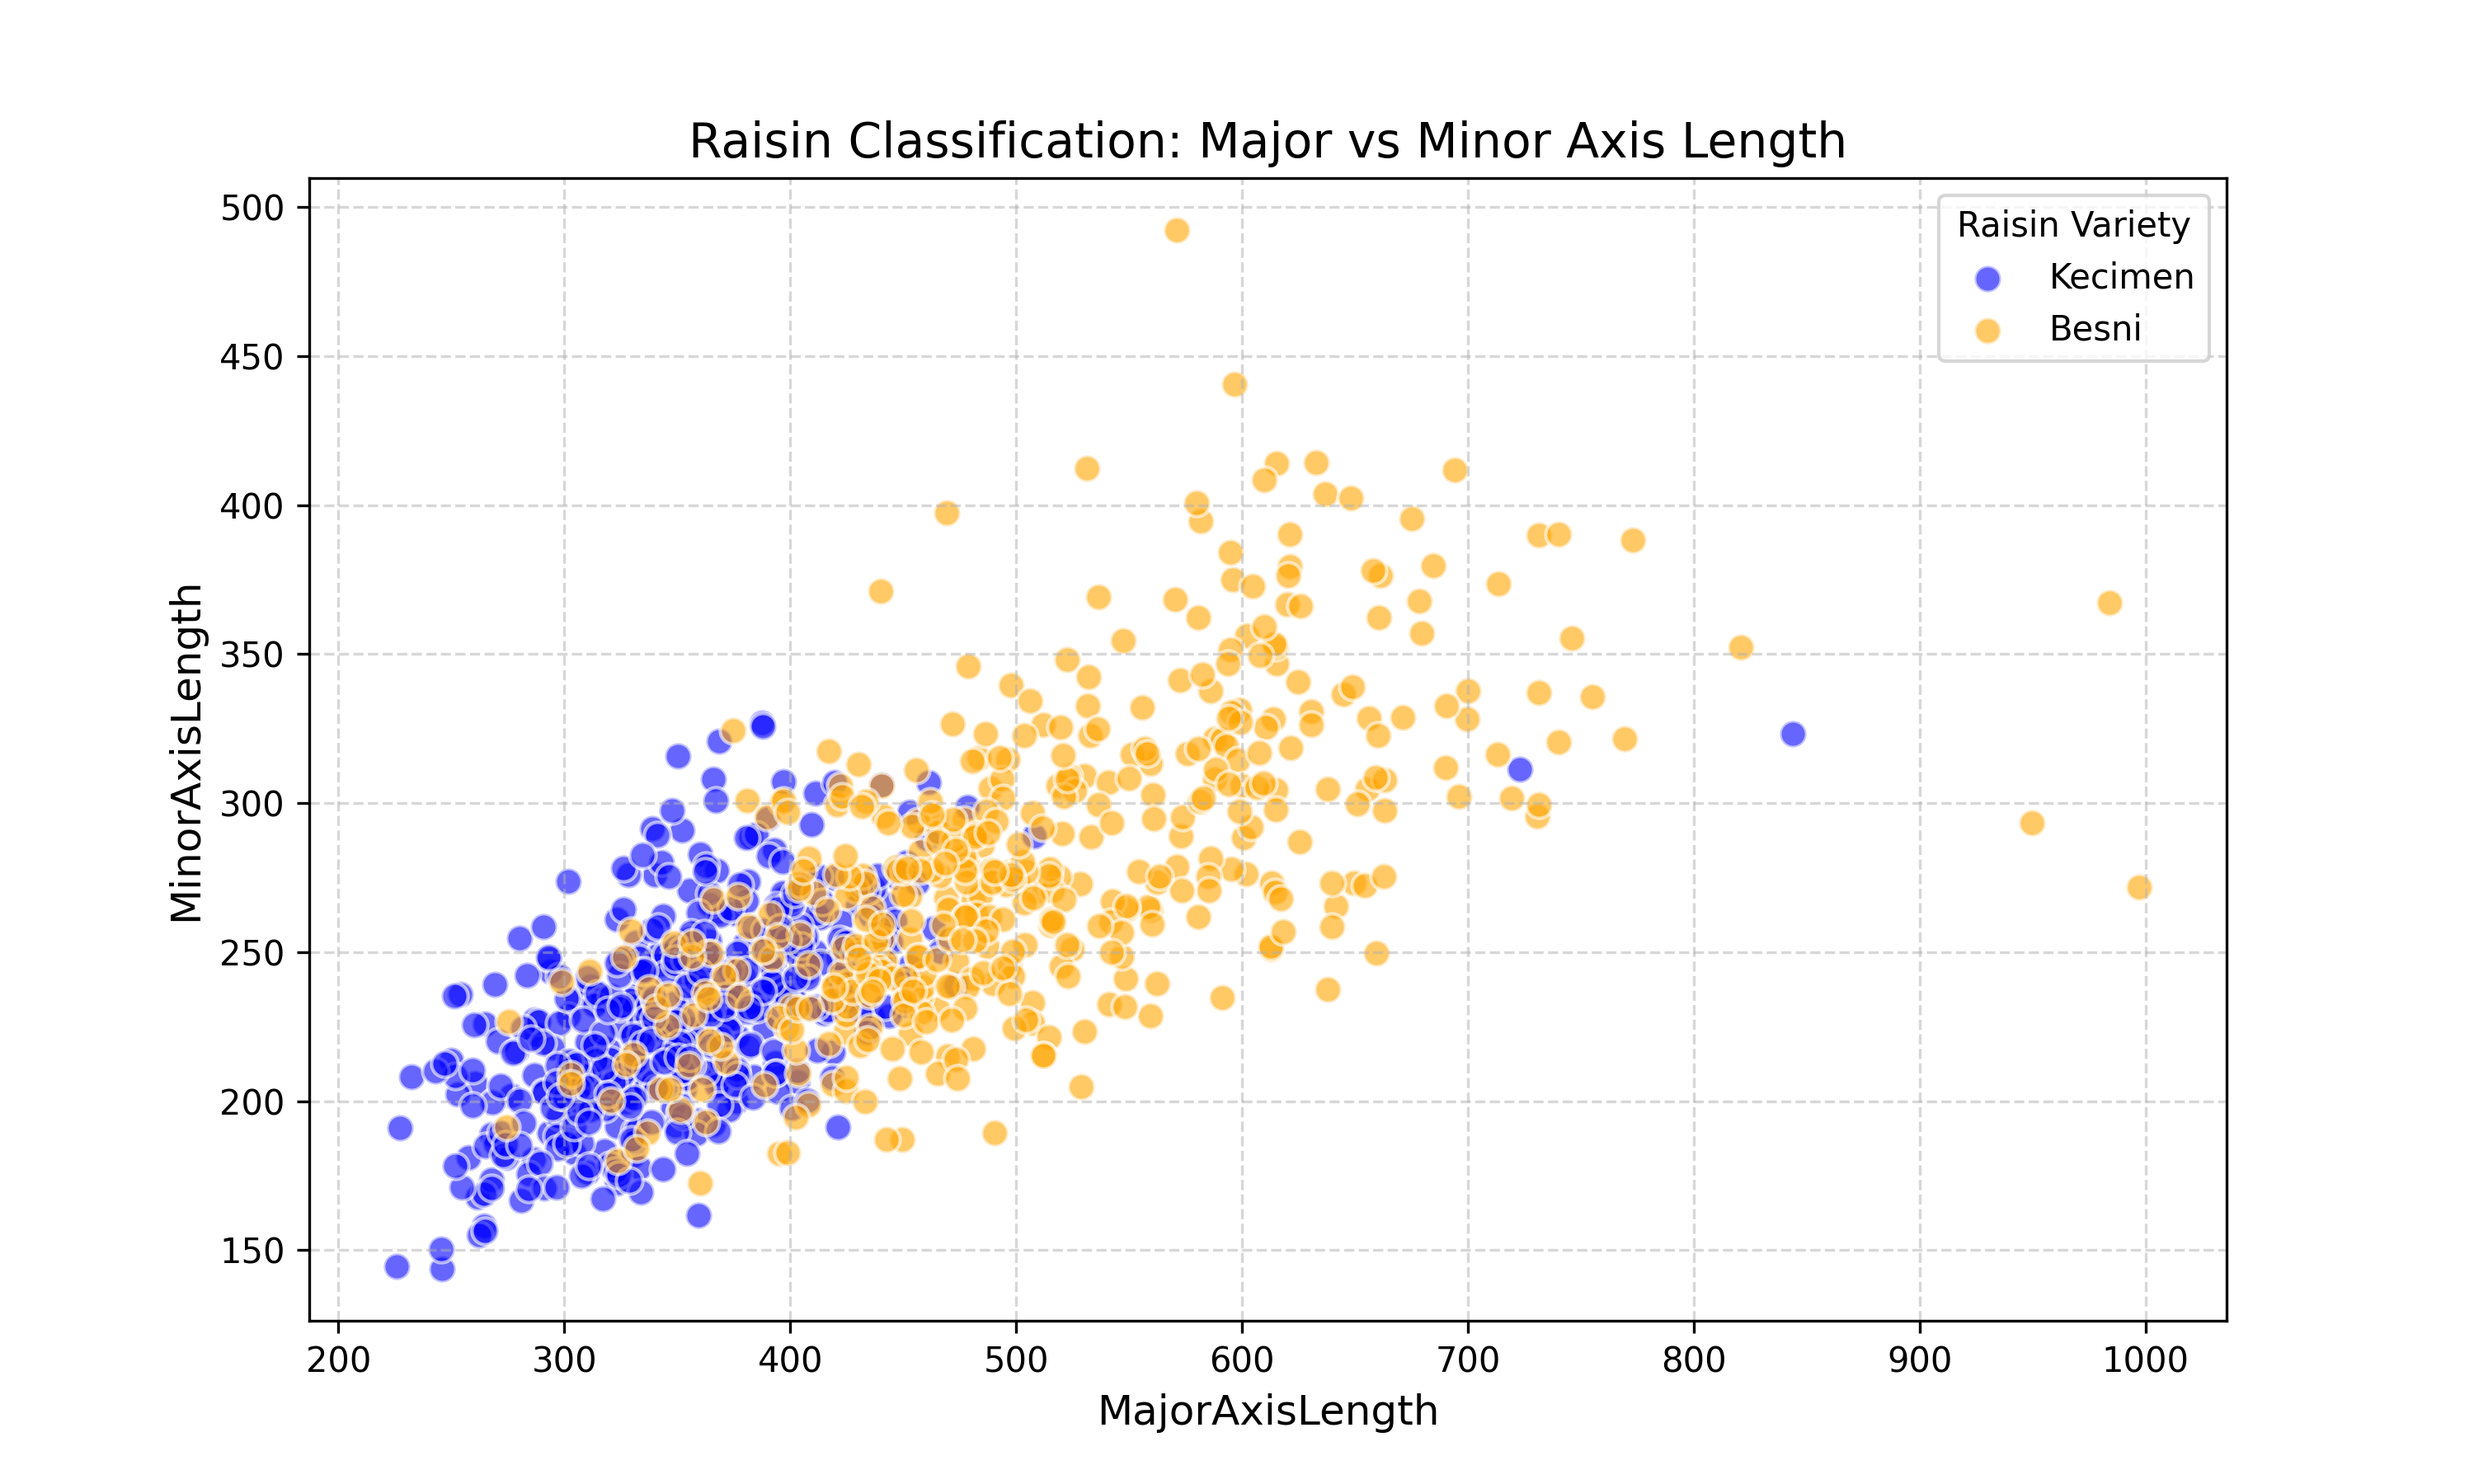
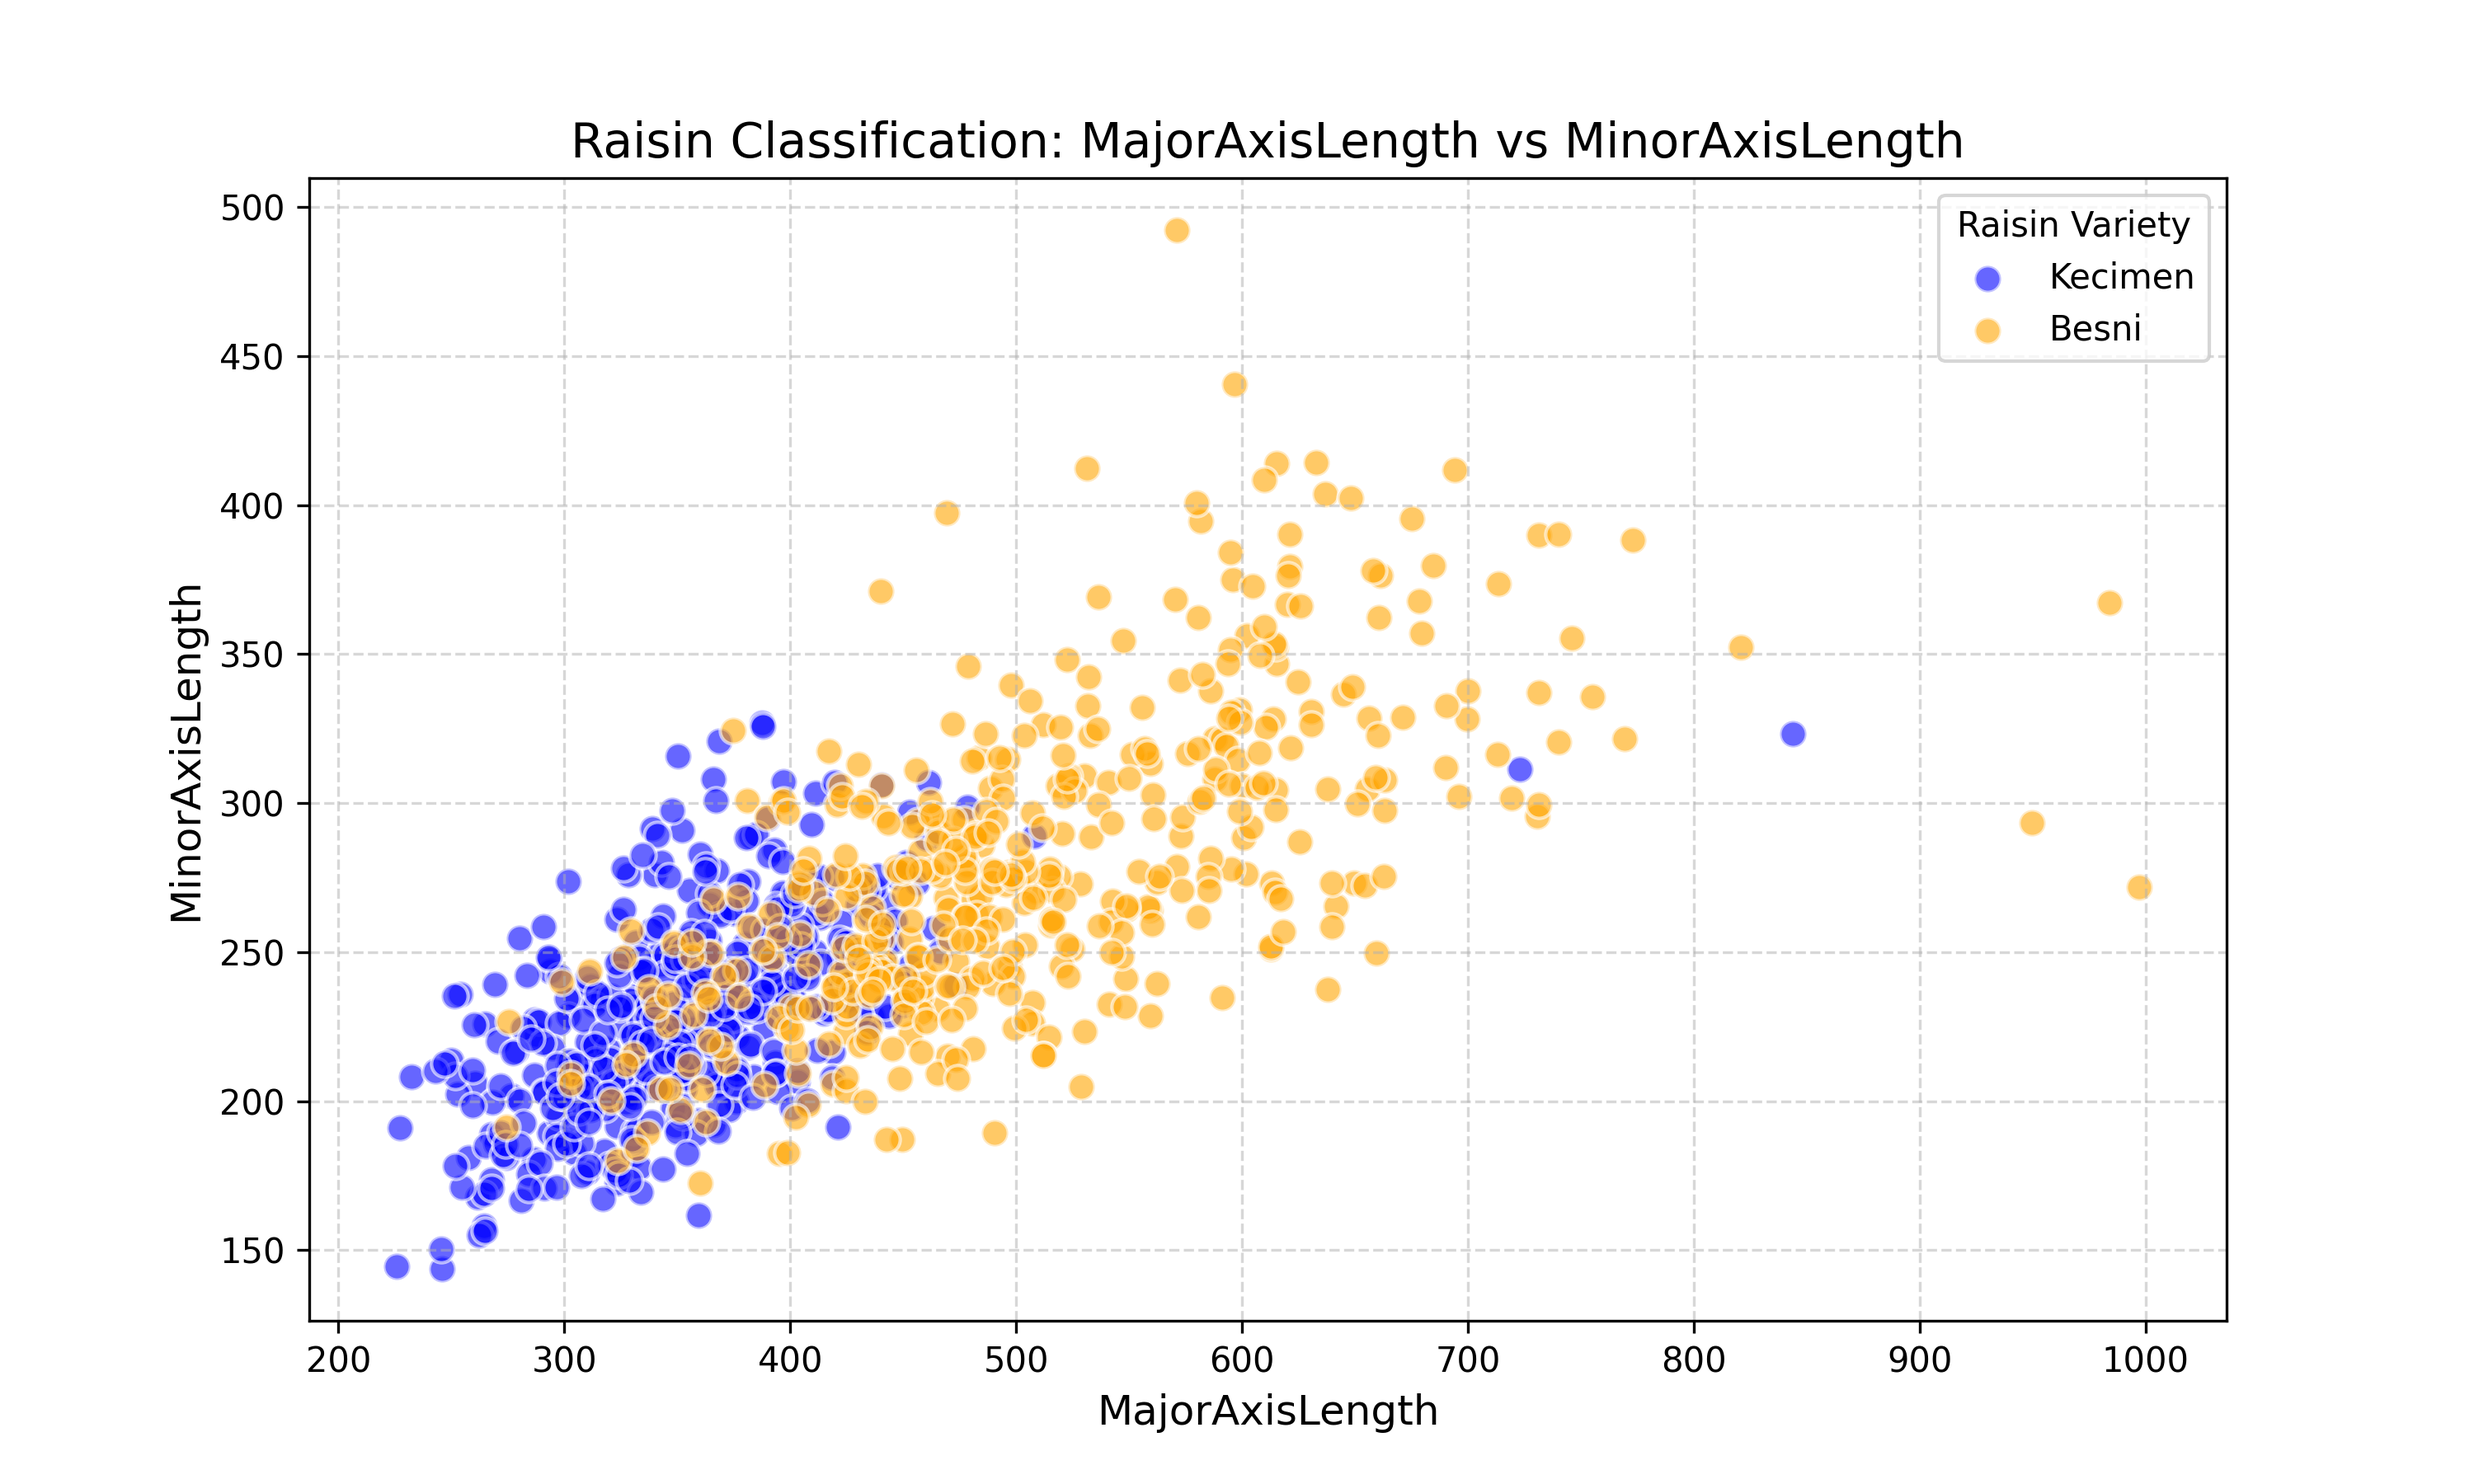
improvement

Changed region(s): [[0.248, 0.0622, 0.775, 0.1244]]

diff --git a/main.py b/main.py
@@ -21,50 +21,39 @@ Raisin = np.dtype(
 
 os.makedirs("graphs/scatterplots", exist_ok=True)
 
-df = pd.read_csv("./data.csv", dtype=Raisin)
+df = pd.read_csv("./data.csv")
 
 color_map = {"Kecimen": "blue", "Besni": "orange"}
 
-plt.figure(figsize=(10, 6))
-for label, color in color_map.items():
-    subset = df[df["Class"] == label]
 
-    plt.scatter(
-        subset["MajorAxisLength"],
-        subset["MinorAxisLength"],
-        c=color,
-        label=label,
-        alpha=0.6,
-        edgecolors="w",
-        s=60,
-    )
-
-plt.title("Raisin Classification: Major vs Minor Axis Length", fontsize=14)
-plt.xlabel("MajorAxisLength", fontsize=12)
-plt.ylabel("MinorAxisLength", fontsize=12)
-plt.legend(title="Raisin Variety")
-plt.grid(True, linestyle="--", alpha=0.5)
-
-plt.savefig("graphs/scatterplots/raisin_scatterplot_1.png", dpi=300)
-
-plt.figure(figsize=(10, 6))
-for label, color in color_map.items():
-    subset = df[df["Class"] == label]
-
-    plt.scatter(
-        subset["Area"],
-        subset["Extent"],
-        c=color,
-        label=label,
-        alpha=0.6,
-        edgecolors="w",
-        s=60,
-    )
-
-    plt.title("Raisin Classification: Area vs Extent", fontsize=14)
-    plt.xlabel("Area", fontsize=12)
-    plt.ylabel("Extent", fontsize=12)
+def scatter_plot(df, x_col, y_col, filename, color_map):
+    plt.figure(figsize=(10, 6))
+    for label, color in color_map.items():
+        subset = df[df["Class"] == label]
+        plt.scatter(
+            subset[x_col],
+            subset[y_col],
+            c=color,
+            label=label,
+            alpha=0.6,
+            edgecolors="w",
+            s=60,
+        )
+    plt.title(f"Raisin Classification: {x_col} vs {y_col}", fontsize=14)
+    plt.xlabel(x_col, fontsize=12)
+    plt.ylabel(y_col, fontsize=12)
     plt.legend(title="Raisin Variety")
     plt.grid(True, linestyle="--", alpha=0.5)
+    plt.savefig(filename, dpi=300)
 
-    plt.savefig("graphs/scatterplots/raisin_scatterplot_2.png", dpi=300)
+
+scatter_plot(
+    df,
+    "MajorAxisLength",
+    "MinorAxisLength",
+    "graphs/scatterplots/raisin_scatterplot_1.png",
+    color_map,
+)
+scatter_plot(
+    df, "Area", "Extent", "graphs/scatterplots/raisin_scatterplot_2.png", color_map
+)
